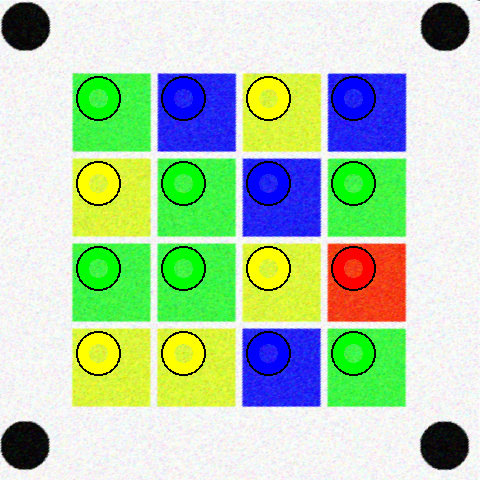
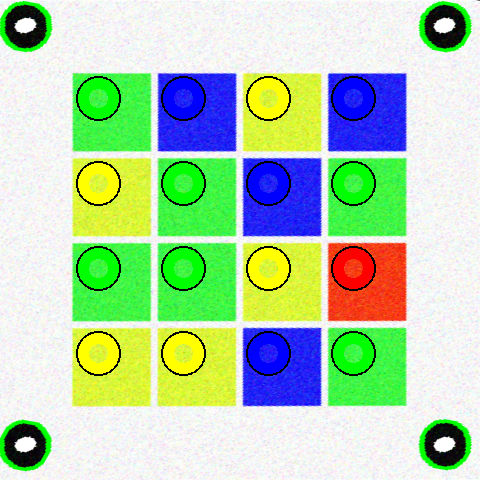
final again

diff --git a/main.py b/main.py
@@ -27,7 +27,6 @@ def findColours(wraped_image):
         return coord*85 + 73
     
     square_size = 75
-    
     for x in range(0,4):
         x_ = to_image_coords(x)
         for y in range(0,4):
@@ -57,8 +56,8 @@ def findColours(wraped_image):
             cv.circle(wraped_image2,(y_+25,x_+25),17 ,color = [0,0,0],thickness = 10)
             cv.circle(wraped_image2,(y_+25,x_+25),15 ,color = colour_value_dict[colour],thickness = 10)
             colour_array_symbol[x,y] = colour
-    cv.imshow("wrap",wraped_image2)
-    cv.waitKey(0)
+    # cv.imshow("wrap",wraped_image2)
+    # cv.waitKey(0)
     
     return colour_array_symbol, wraped_image2
           
@@ -73,7 +72,7 @@ def findCircles(rgb_image):
     # cv.imshow("rgb",rgb_image)
     # cv.waitKey(0)
 
-    threshold_value = 100
+    threshold_value = 120
     threshold = cv.threshold(rgb_image[:,:,0], threshold_value, 255, cv.THRESH_BINARY_INV)[1]   * cv.threshold(rgb_image[:,:,1], threshold_value, 255, cv.THRESH_BINARY_INV)[1]    * cv.threshold(rgb_image[:,:,2], threshold_value, 255, cv.THRESH_BINARY_INV)[1]   
 
 
@@ -82,7 +81,7 @@ def findCircles(rgb_image):
     
     circles_only = (cv.medianBlur(threshold, 5)) # threshold out all of non circles objects on the image
     
-    # cv.imshow("circles",circles_only)
+    # cv.imshow("circles",cv.resize(circles_only,[480,480]))
     # cv.waitKey(0)
     
     cnts = cv.findContours(circles_only, cv.RETR_EXTERNAL,	cv.CHAIN_APPROX_SIMPLE)
@@ -97,30 +96,25 @@ def findCircles(rgb_image):
         centers[index,:] = center #store centers, to find centers of grid, note will not always be center of grid but is an adequate approximation, just need to find bounding corners
         	
         # draw the contour and center of the shape on the image
-        #cv.drawContours(rgb_image, [cnt], -1, (0, 255, 0), 2)
-        #cv.circle(rgb_image, center, 7, (255, 255, 255), -1)
+        cv.drawContours(rgb_image, [cnt], -1, (0, 255, 0), 2)
+        cv.circle(rgb_image, center, 7, (255, 255, 255), -1)
     	
     	
     	# show the image
-    print("centers")
+    # cv.imshow("rgb",rgb_image)
+    # cv.waitKey(0)
     return centers
 
 # now that we have the circles we need to contour them and find their centers
-def unwarp(rgb_image):
+def correctImage(rgb_image):
     """requires only the circles on the image to be white and everything else to be black returns the unwraped image that has the same form as the org images"""
-    centers = findCircles(rgb_image)
-        
-    grid_center_approx = np.array ((int(np.average(centers[:,0])), int(np.average(centers[:,1])))) # so the point with with both coords less than the center is bottom left
-    
+    centers = findCircles(rgb_image)        
+    grid_center_approx = np.array ((int(np.average(centers[:,0])), int(np.average(centers[:,1]))))    
     rect = np.zeros((4,2),np.float32) #make new array to popualte with centers in order of c as iamge orgin 0,0 is top left
-    
-
-     
+        
     if np.shape(centers) != (4 ,2):
         print("not 4 centers")
         exit()
-
-
 
     def bearing(point, center):
         x, y = point
@@ -198,29 +192,31 @@ def loadImages(filename):
     return rgb_image
 
 
+def colourMatrix(filename):
+    rgb_image = loadImages(filename)
+        
+    print(filename)     
+    
+    warp = correctImage(rgb_image)        
+    colour_array, warp_pridicted = findColours(warp)    
+    print(colour_array)
+
+#        save the image
+    cv.imwrite(f"images2_predicted\{filename}",warp_pridicted)
+    
+
+
 def main():
+    global colour_array
     for filename in os.listdir("images2"):
         
-        rgb_image = loadImages(filename)
-        
-        print(filename)
-        
-        
-        warp = unwarp(rgb_image)
-        
-        colour_array, warp_pridicted = findColours(warp)
-        
-        print(f"{filename}\n{colour_array }") 
-        print("\n"*3)
-    
-#        save the image
-        cv.imwrite(f"images2_predicted\{filename}",warp_pridicted)
+        colourMatrix(filename)
     
 input_image = cv.imread(f"images2\org_1.png",cv.IMREAD_GRAYSCALE)# make image grey, just to locate the circles -> boxes
 smooth_image = cv.GaussianBlur(input_image, [3,3],1,1)# attempt to remove some noise
 
-cv.imshow("greyblur",smooth_image)
-cv.waitKey(0)
+# cv.imshow("greyblur",smooth_image)
+# cv.waitKey(0)
 
 
 main()
